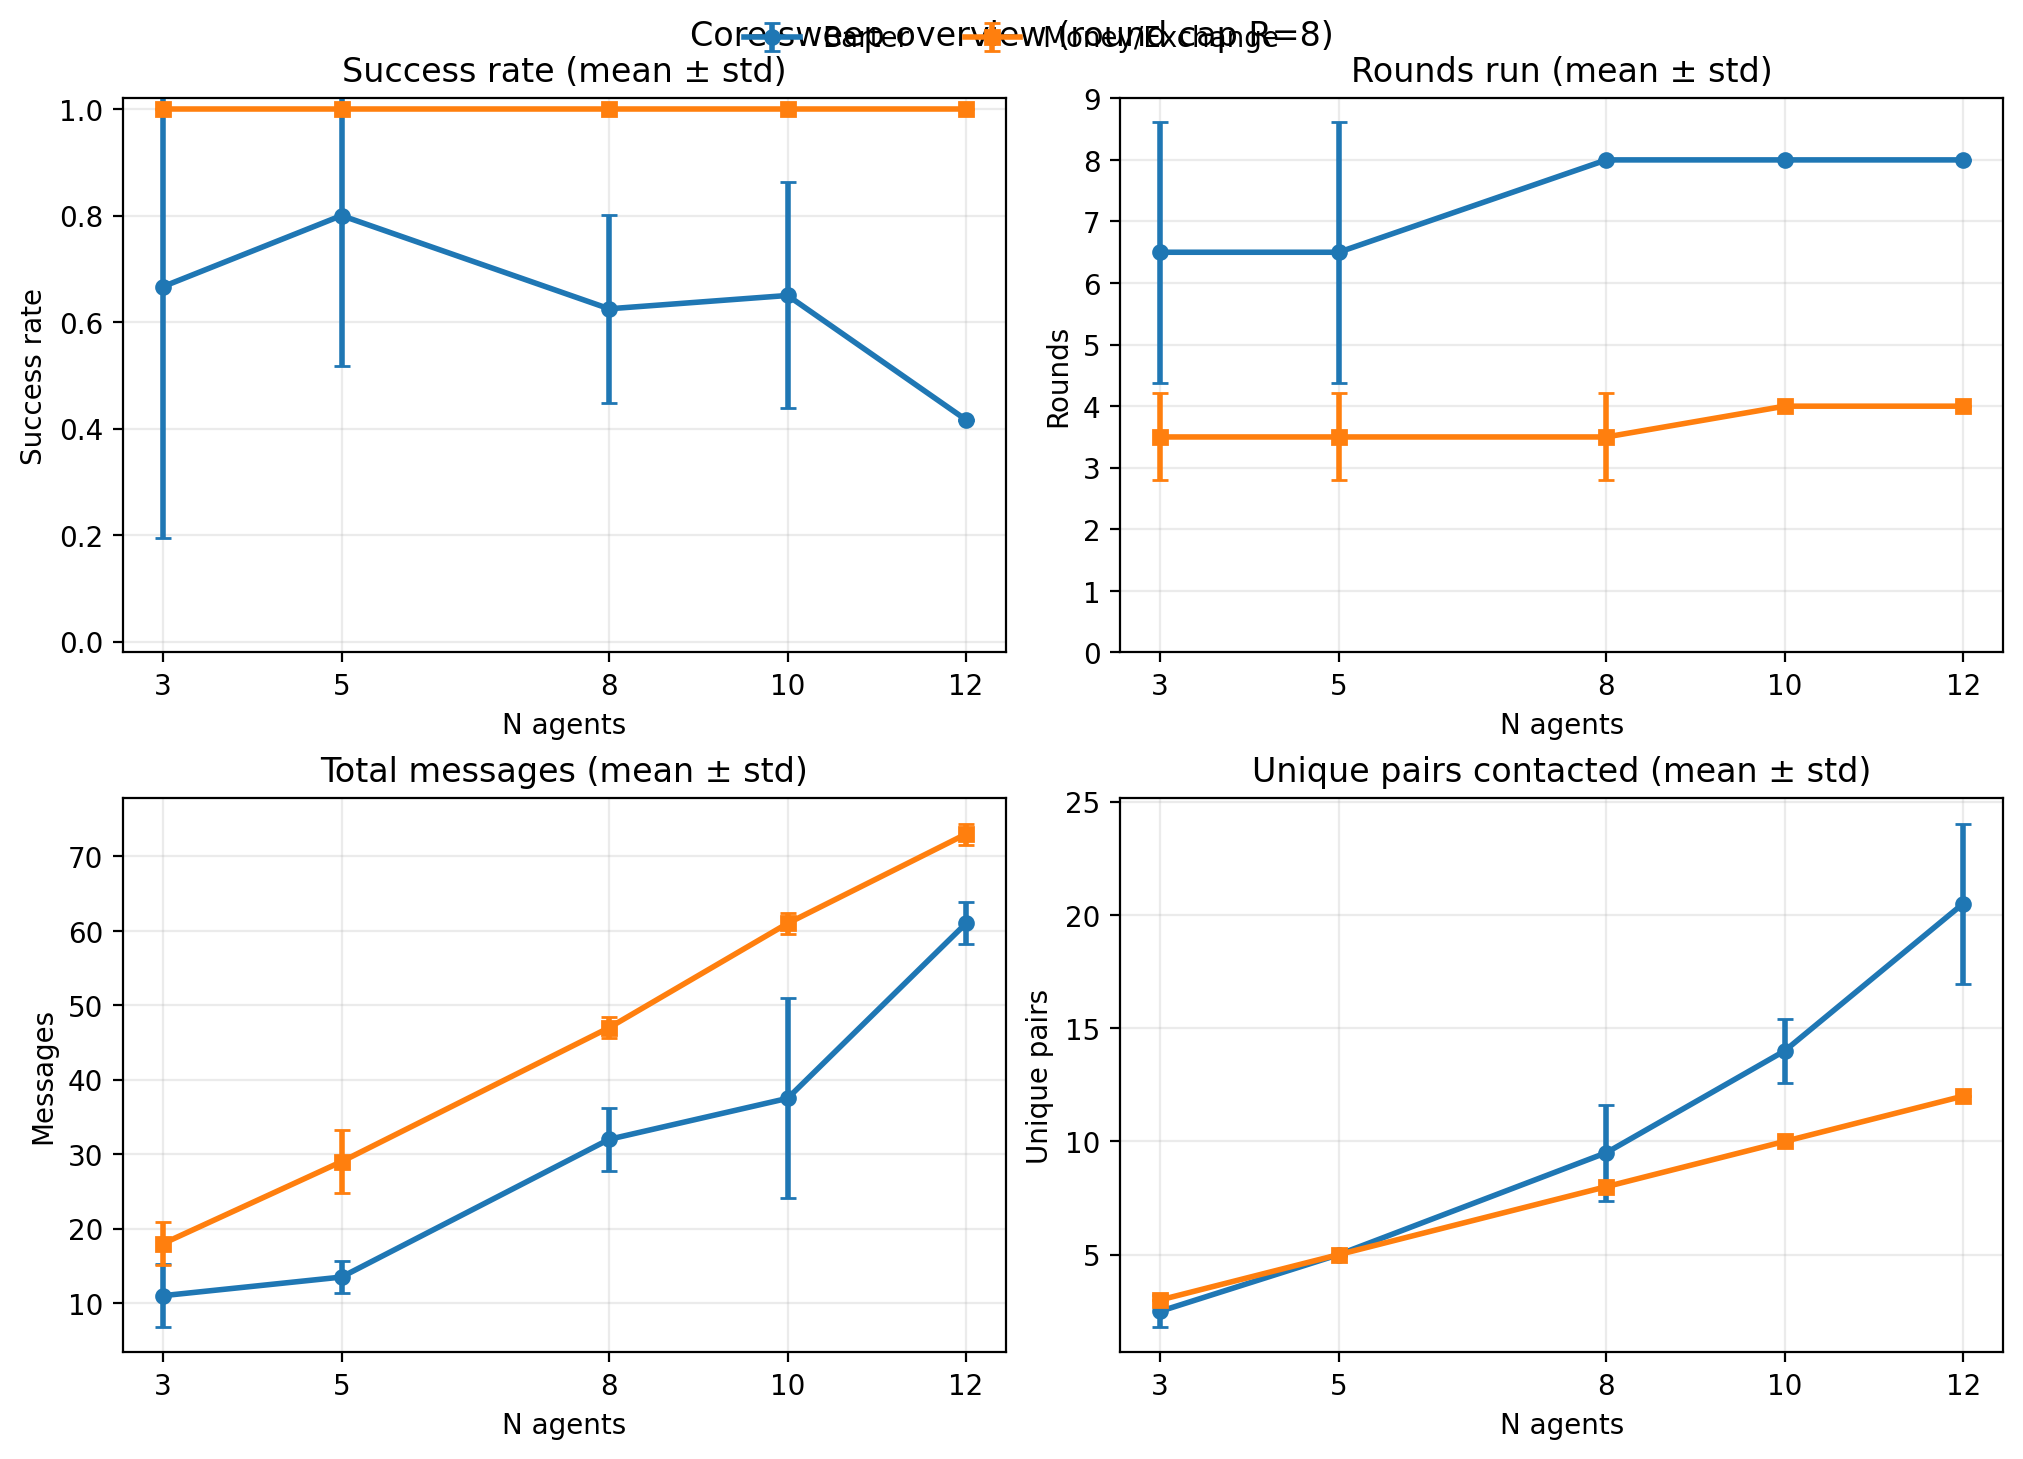
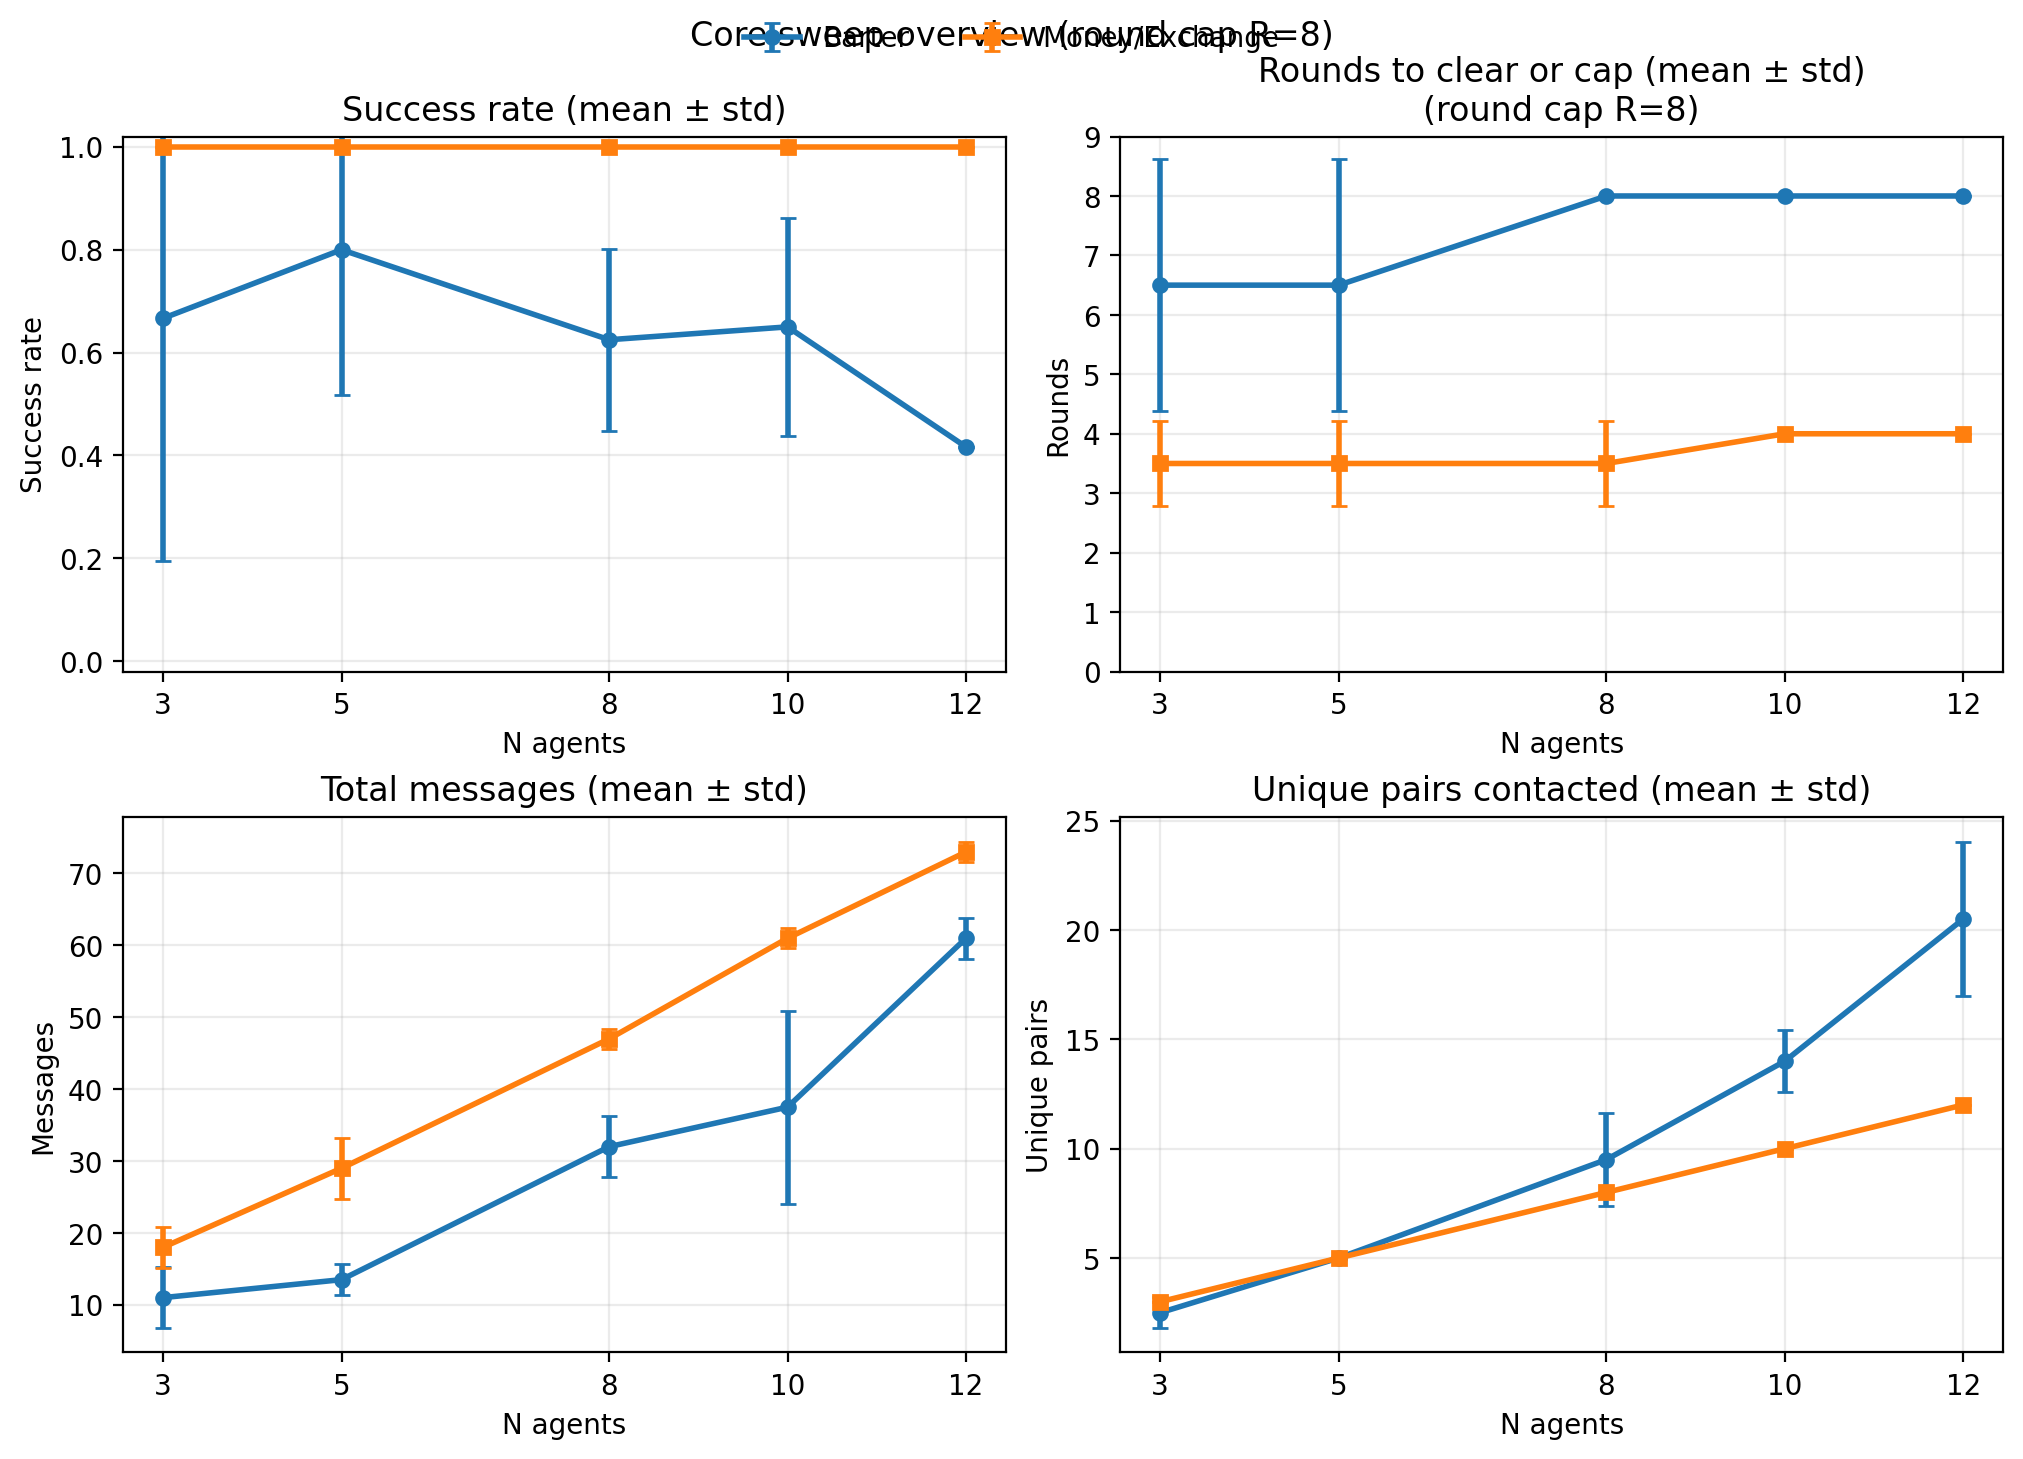
docs: clarify rounds_run in figures

diff --git a/src/agentic_economy/reporting.py b/src/agentic_economy/reporting.py
@@ -180,7 +180,7 @@ def generate_core_sweep_overview(core_df: pd.DataFrame, out_dir: Path) -> list[P
     ax_success.set_xticks(n_values)
     ax_success.grid(True, alpha=0.25)
 
-    ax_rounds.set_title("Rounds run (mean ± std)")
+    ax_rounds.set_title(f"Rounds to clear or cap (mean ± std)\n(round cap R={rounds_cap})")
     ax_rounds.set_xlabel("N agents")
     ax_rounds.set_ylabel("Rounds")
     ax_rounds.set_ylim(0, max(rounds_cap, int(df["rounds_run_mean"].max())) + 1)
@@ -298,7 +298,7 @@ def generate_showcase_overview(
     ax_success.grid(True, axis="y", alpha=0.25)
 
     ax_rounds.bar(x, rounds_mean, yerr=rounds_std, capsize=3, color=palette)
-    ax_rounds.set_title("Rounds run (mean ± std)")
+    ax_rounds.set_title(f"Rounds to clear or cap (mean ± std)\n(round cap R={rounds_cap})")
     ax_rounds.set_ylabel("Rounds")
     ax_rounds.set_ylim(0, max(rounds_cap, int(max(rounds_mean))) + 1)
     ax_rounds.set_xticks(list(x), labels, rotation=15, ha="right")

diff --git a/README.md b/README.md
@@ -78,6 +78,8 @@ At $N=8$ with round cap $R=8$ (model `gpt-5-mini`):
 
 ![Showcase overview (success + rounds)](results/figures/showcase_overview.png)
 
+RHS panel: `rounds_run` is how many rounds the run lasted before termination; lower means the institution cleared faster, and values at the round cap mean it did not clear within the fixed budget.
+
 ### Core sweep (barter vs money/Exchange)
 
 To probe the core claim above without overfitting to any single random economy, we reran the two key institutions (barter vs money/Exchange) on **two independent economies** (seeds 0 and 1) across a small $N$ sweep under a fixed round cap $R=8$.

diff --git a/results/showcase.md b/results/showcase.md
@@ -5,6 +5,7 @@ This is the curated 4-condition summary table intended for the writeup. It selec
 - Source: `results/all_runs_aggregate.csv`
 - N = 8, R = 8, model = `gpt-5-mini`
 - LaTeX version: `results/paper/showcase_table.tex`
+- Note: `rounds_run` is rounds until termination (clearing or hitting the round cap); lower is better.
 
 | condition | run_set | runs | success_rate | rounds_run | total_messages | unique_pairs | credit_accepts |
 | --- | --- | --- | --- | --- | --- | --- | --- |
